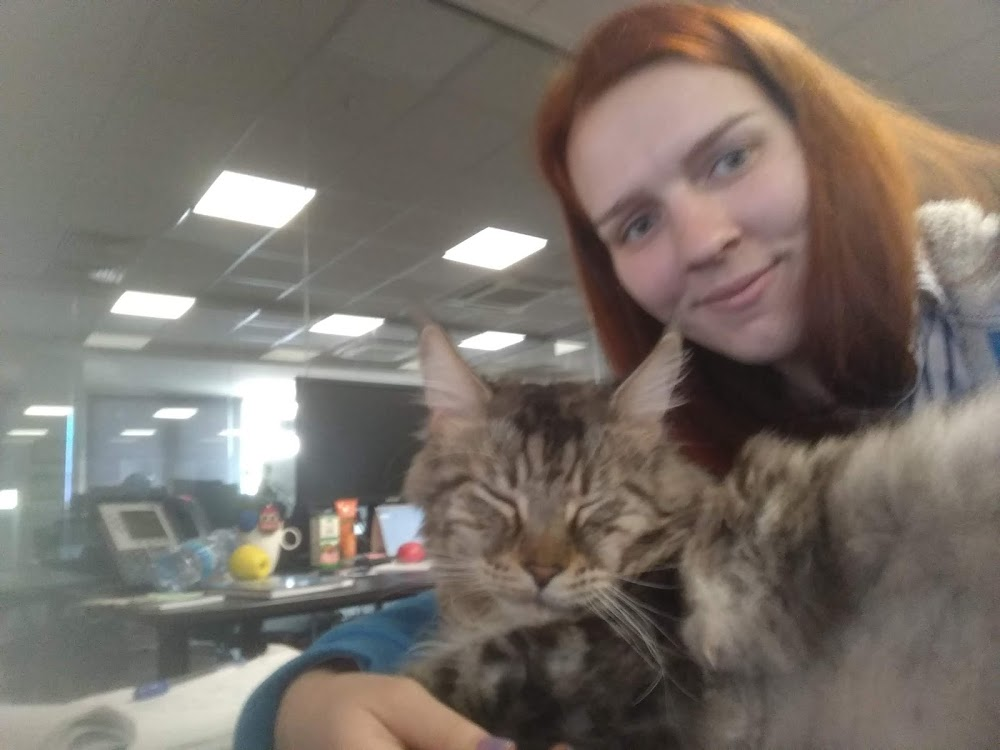
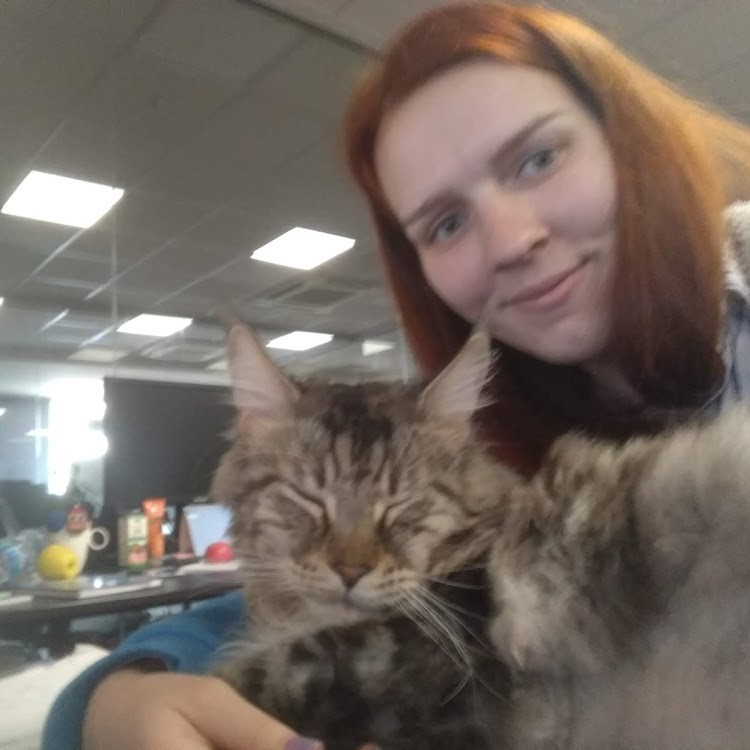
images cropping for about page

diff --git a/templates/about.html b/templates/about.html
@@ -95,9 +95,9 @@
                                              alt="...">
                                     </div>
                                     <div class="carousel-item">
-                                    <img src="static/images/manav1.jpg"
-                                         class="card-img align-center d-block w-100"
-                                         alt="...">
+                                        <img src="static/images/manav1.jpg"
+                                             class="card-img align-center d-block w-100"
+                                             alt="...">
                                     </div>
                                 </div>
                             </div>
@@ -107,7 +107,7 @@
                         <div class="card-body">
                             <h5 class="card-title">Manav</h5>
                             <p class="card-text">Main role: Project Manager.
-                                <br>SEO,Digital Marketing,Java Developer. 2 Years of Experience </p>
+                                <br>SEO, Digital Marketing, Java Developer. 2 Years of Experience.</p>
                             <button onclick="window.location='https://www.linkedin.com/in/manav-sethi-5390774a/';"
                                     type="button"
                                     class="btn btn-secondary btn-block align-self-end mt-auto">More
